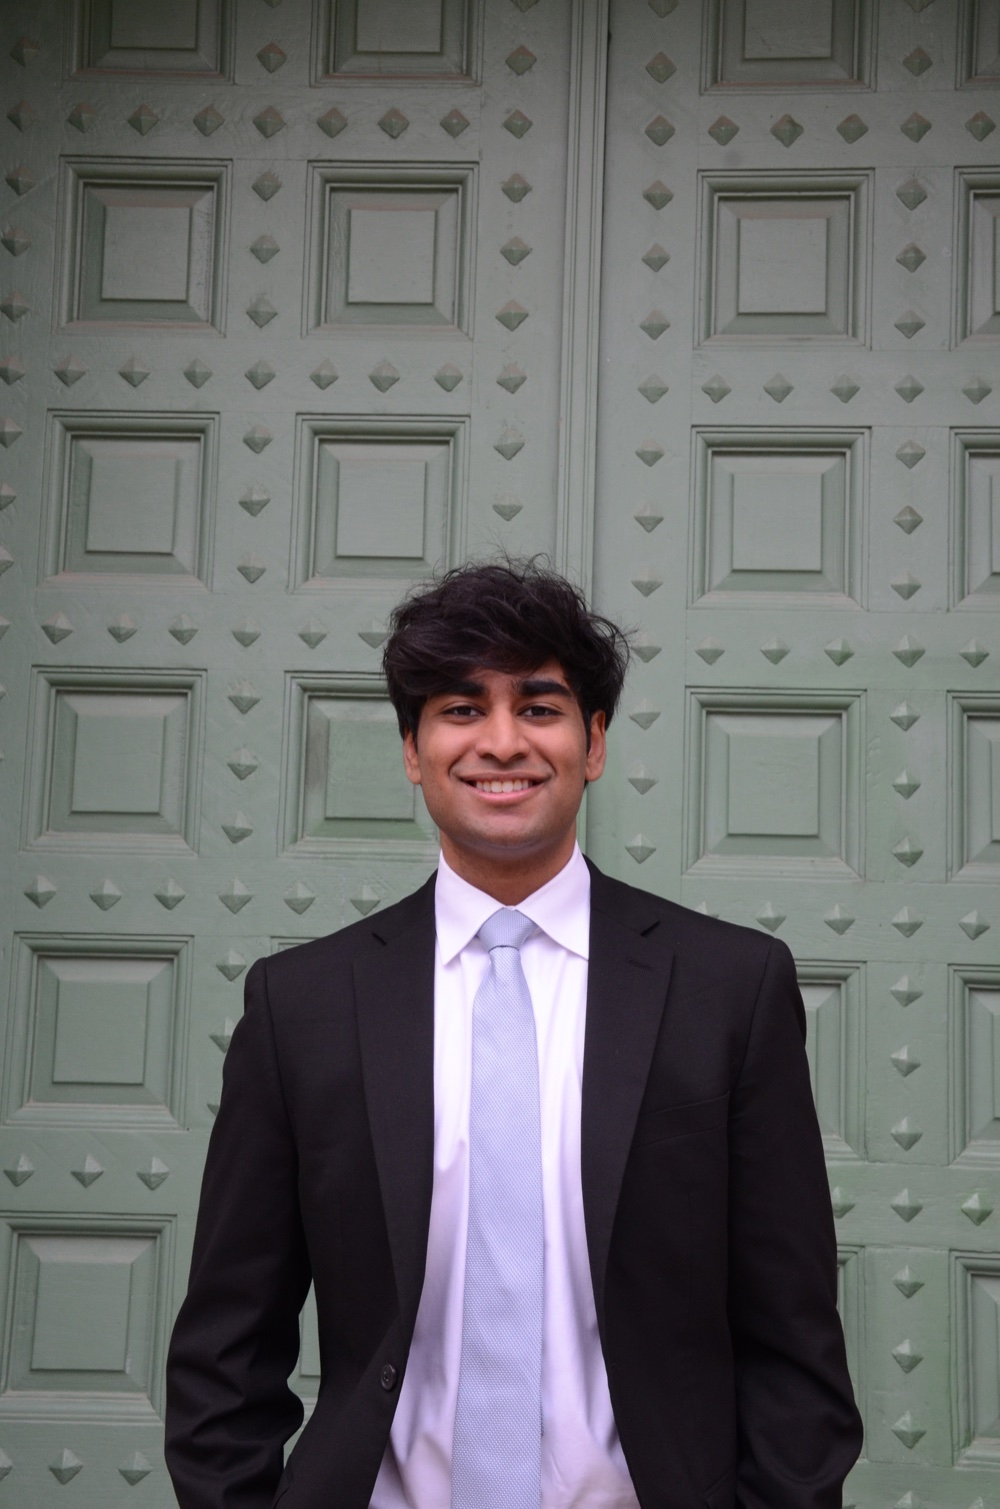
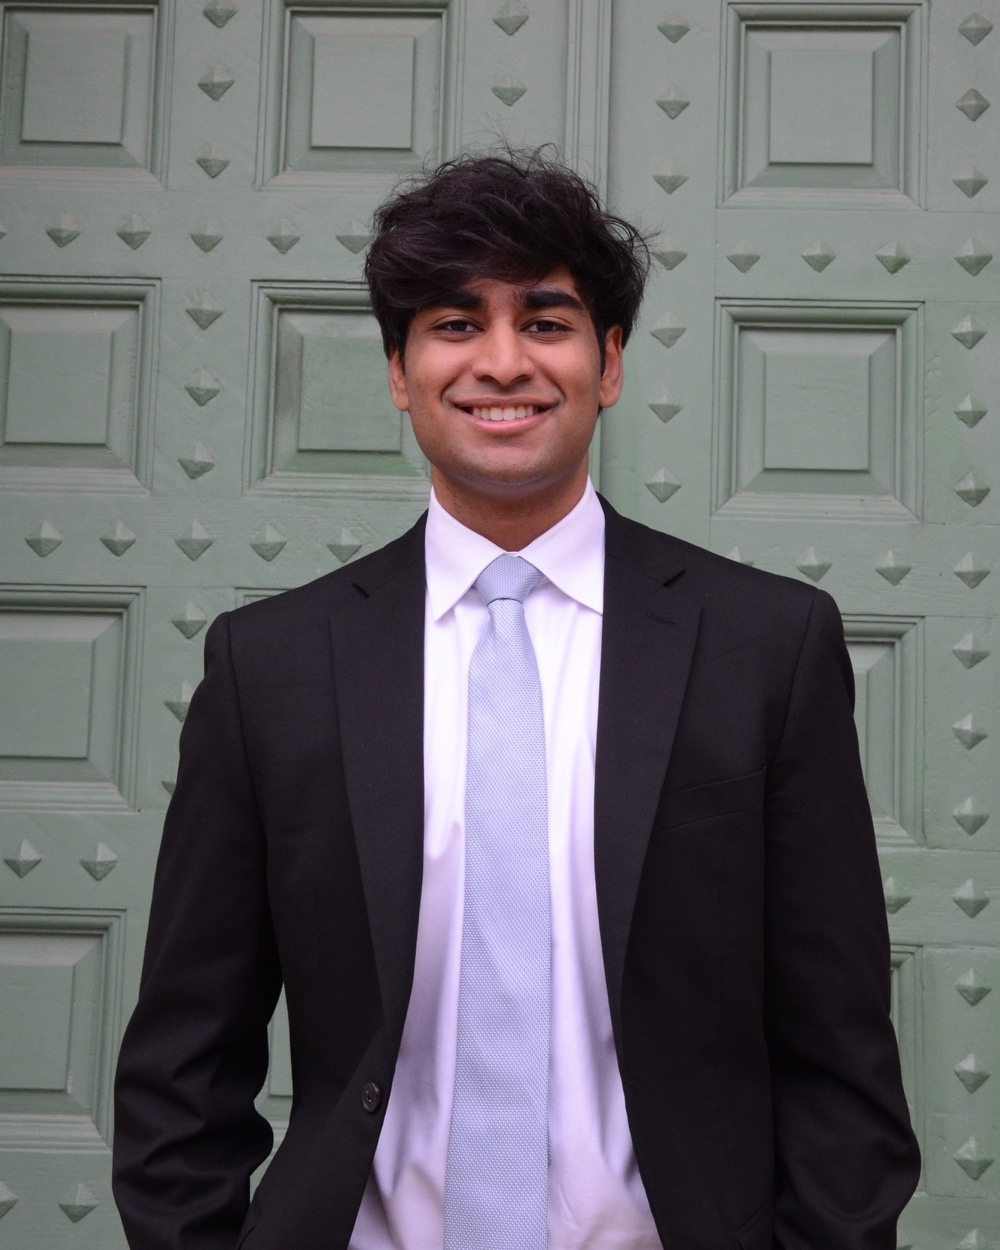
crop saketh photo, use new photos in pledge class rosters

diff --git a/src/pages/About.tsx b/src/pages/About.tsx
@@ -44,7 +44,7 @@ const pledgeClasses = [
       { name: 'Nitin Jaladanki', img: '/images/headhsots/Beta Mu/nitinJaladanki.png' },
       { name: 'Riccardo Faramondi', img: '/images/headhsots/Beta Mu/riccardoFaramondi.jpeg' },
       { name: 'Sajan Parikh', img: '/images/headhsots/Beta Mu/sajanParikh.jpeg' },
-      { name: 'Saketh Koduri', img: '/images/headhsots/Beta Mu/sakethKoduri.jpg' },
+      { name: 'Saketh Koduri', img: '/images/ec/sakethKoduri.jpeg' },
       { name: 'Samantha Cruz', img: '/images/headhsots/Beta Mu/samanthaCruz.jpeg' },
       { name: 'Simran Bajwa', img: '/images/headhsots/Beta Mu/simranBajwa.jpeg' },
       { name: 'Soumil Voma', img: '/images/headhsots/Beta Mu/soumilVoma.jpeg' },
@@ -79,7 +79,7 @@ const pledgeClasses = [
       { name: 'Esha Bandi', img: '/images/headhsots/Beta Xi/eshaBandi.jpeg' },
       { name: 'Rohan Bhardwaj', img: '/images/headhsots/Beta Xi/rohanBhardwaj.jpeg' },
       { name: 'Riddhi Chowdhury', img: '/images/headhsots/Beta Xi/riddhiChowdhury.jpeg' },
-      { name: 'Aarav Goswami', img: '/images/headhsots/Beta Xi/aaravGoswami.jpeg' },
+      { name: 'Aarav Goswami', img: '/images/ec/aaravGoswami.jpeg' },
       { name: 'Natnaele Gulte', img: '/images/headhsots/Beta Xi/natnaeleGulte.jpeg' },
       { name: 'Beomjun Kim', img: '/images/headhsots/Beta Xi/beomjunKim.jpeg' },
       { name: 'Meghana Kothamasu', img: '/images/headhsots/Beta Xi/meghanaKothamasu.jpeg' },
